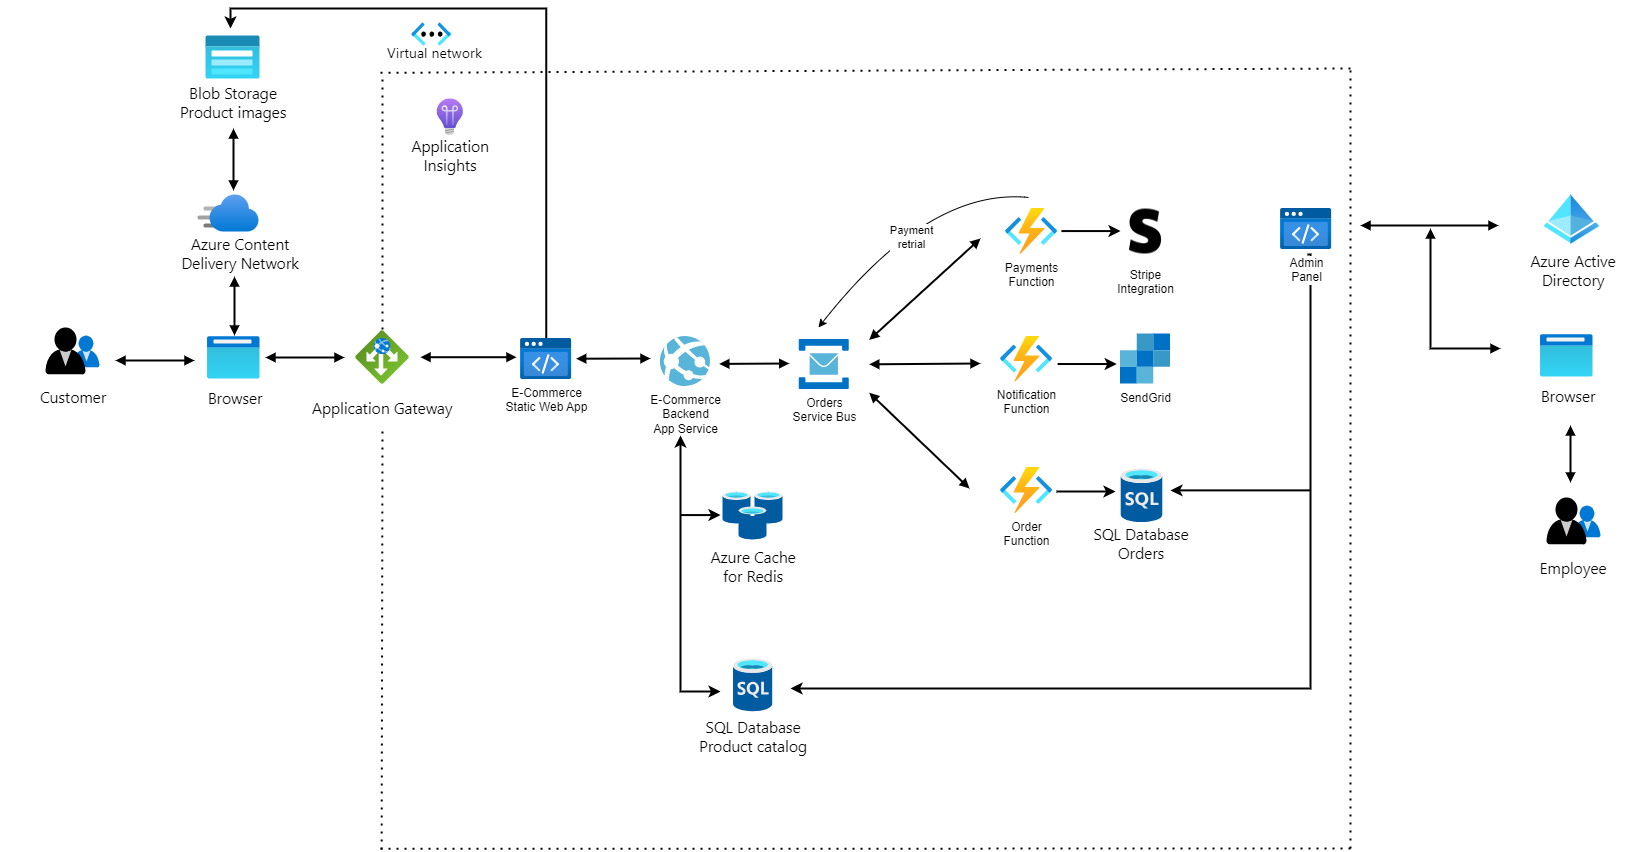
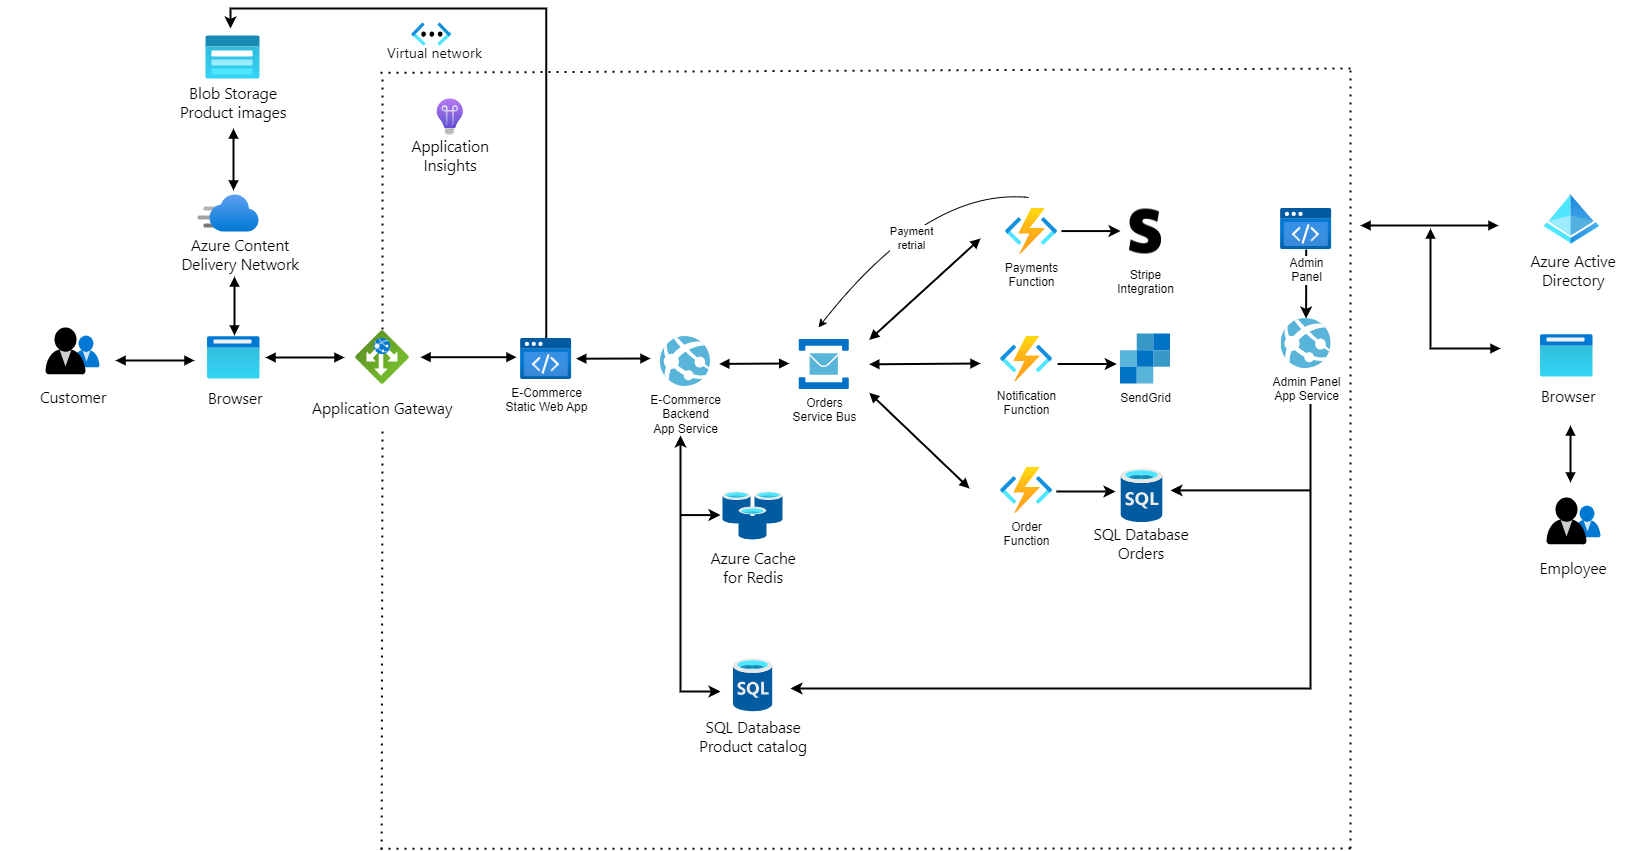
Update readme and architecture

diff --git a/README.md b/README.md
@@ -1,3 +1,37 @@
+# ECommerce shop overview
+
+The .NET e-commerce shop is a modern and robust online shopping platform designed to provide a seamless shopping experience for customers. It utilizes a variety of Azure services and technologies to ensure reliability, scalability, and performance.
+
+**Key Components:**
+
+- Application Gateway: An Azure Application Gateway is used as a secure entry point to the application. It handles SSL termination, routing, and load balancing, ensuring high availability and security.
+
+- Frontend: The shop's frontend is built using Angular and hosted as a static web app. It provides an interactive and user-friendly interface for customers to browse products, place orders, and manage their accounts.
+
+- Azure CDN: To optimize content delivery and reduce latency, the shop uses Azure CDN to cache and serve static files, such as JavaScript and CSS, providing a faster browsing experience for users.
+
+- Azure Blob Storage: Images and other media files are stored in Azure Blob Storage. This allows for efficient content management, scalability, and reliable storage.
+
+- Web API: The shop's backend is powered by a Web API hosted in an Azure App Service. This API is responsible for handling product catalog data, processing orders, and managing user accounts.
+
+- Azure Cache for Redis: Recent product searches are cached in Azure Cache for Redis, improving search performance and reducing database load.
+
+- Azure Service Bus Topic: The shop's backend publishes messages to an Azure Service Bus Topic. This decouples components and enables asynchronous communication.
+
+- Azure Functions:
+
+    - Payments Function: This Azure Function integrates with Stripe for payment processing, ensuring secure and reliable transactions.
+    - Notifications Function: It integrates with SendGrid to send email notifications, such as order confirmations and updates.
+    - Orders Function: Responsible for managing orders, it connects to an SQL database to store order details and update order statuses.
+
+- Admin Panel: An Angular-based admin panel authenticates with Azure AD, allowing staff to efficiently process incoming orders, manage inventory, and oversee the shipping process.
+
+- Admin Panel App Service: The backend app service for managing admin actions, which integrates with the Product and Orders databases
+
+- Application Insights: Application Insights is used for monitoring and gaining insights into the performance and usage of the e-commerce platform. It helps identify issues, troubleshoot bottlenecks, and optimize the system.
+
+
+> The app in this repo is a mix between the ECommerce Backend App Service, the Order function and the Admin Panel App Service as it provides the ability to create and read orders, but it also has a Background service which simulates the processing and shipping of orders. The API is OData enabled, which provides it with great querying power for complex scenarios, which are often required in admin panels. 
 
 # Architectural overview
 ![Image 1](images/architecture.png)
